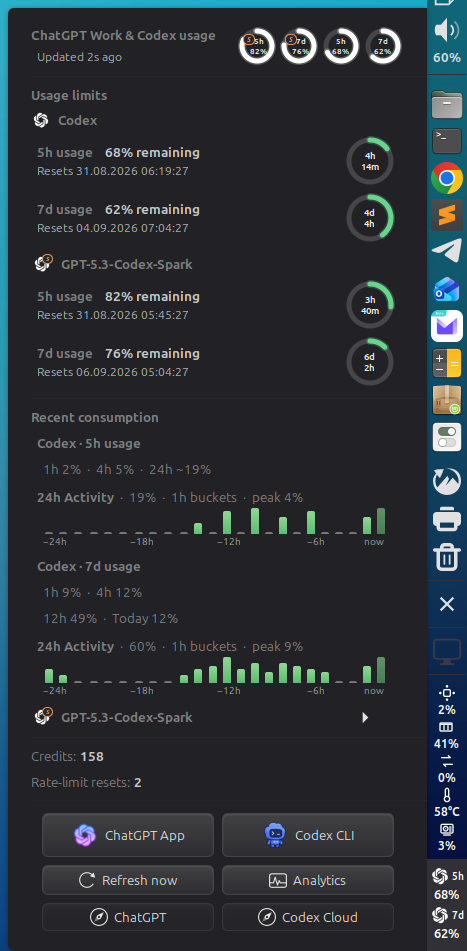
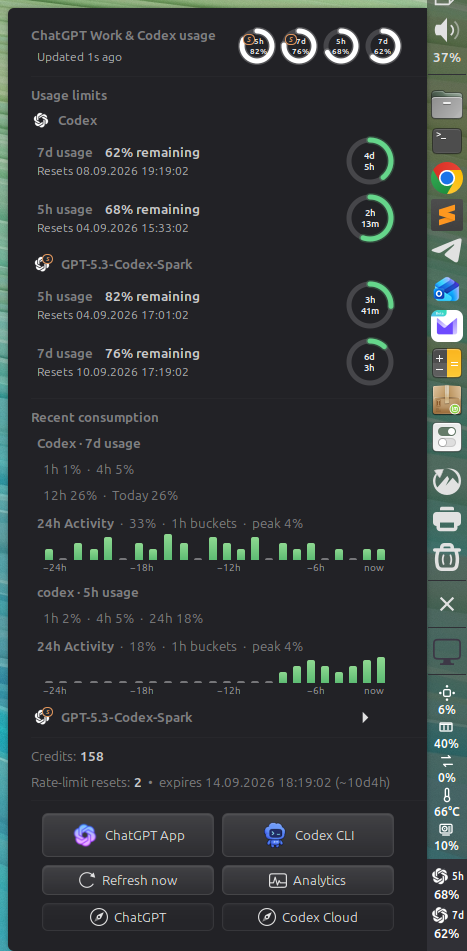
feat: show rate-limit reset expiry (#32)

diff --git a/applet.js b/applet.js
@@ -50,6 +50,12 @@ const COMPACT_QUOTA_RING_SIZE = 40;
 const POPUP_HEADER_RING_LEFT_SHIFT = 13;
 const POPUP_RESET_RING_LEFT_SHIFT = 14;
 const SPARK_BADGE_COLOR = "#f2a15f";
+const RESET_EXPIRY_WARNING_COLOR = "#f2a15f";
+const RESET_EXPIRY_CRITICAL_COLOR = "#ff4d8d";
+const RESET_EXPIRY_WARNING_SECONDS = 7 * 24 * 60 * 60;
+const RESET_EXPIRY_CRITICAL_SECONDS = 24 * 60 * 60;
+const RESET_EXPIRY_BREATHING_OPACITY = 150;
+const RESET_EXPIRY_BREATHING_DURATION_MS = 1100;
 const AUTH_REQUIRED_TITLE = "No ChatGPT login found";
 const AUTH_REQUIRED_DESCRIPTION =
     "Sign in to ChatGPT with the Codex App/CLI, then choose Refresh now.";
@@ -67,6 +73,7 @@ class ChatGptUsageApplet extends Applet.Applet {
         this._timeoutId = 0;
         this._countdownTimeoutId = 0;
         this._countdownWidgets = [];
+        this._resetExpiryBreathingLabels = [];
         this._quotaWidgets = [];
         this._activityTooltips = [];
         this._popupRightInsetRows = [];
@@ -375,7 +382,9 @@ class ChatGptUsageApplet extends Applet.Applet {
                 if (open) {
                     this._rightPanelPopupCloseSeq++;
                     this._rightPanelPopupCloseInProgress = false;
+                    this._startResetExpiryBreathing();
                 }
+                if (!open) this._stopResetExpiryBreathing();
                 if (!open) this._rightPanelPopupLockedWidth = 0;
                 if (!open && !this._rightPanelPopupCloseInProgress) {
                     this._normalizeRightPanelPopupCloseWidth();
@@ -644,11 +653,51 @@ class ChatGptUsageApplet extends Applet.Applet {
         return this.normalColor;
     }
 
+    _resetExpiryColor(expiresAt) {
+        const expiry = Number(expiresAt);
+        if (!Number.isFinite(expiry) || expiry <= 0) return null;
+        const remaining = expiry - GLib.get_real_time() / 1000000;
+        if (remaining <= RESET_EXPIRY_CRITICAL_SECONDS) {
+            return RESET_EXPIRY_CRITICAL_COLOR;
+        }
+        if (remaining <= RESET_EXPIRY_WARNING_SECONDS) {
+            return RESET_EXPIRY_WARNING_COLOR;
+        }
+        return null;
+    }
+
+    _startResetExpiryBreathing() {
+        for (const label of this._resetExpiryBreathingLabels) {
+            if (!label || !label.mapped || label._resetExpiryBreathing) continue;
+            label._resetExpiryBreathing = true;
+            label.opacity = 255;
+            label.ease({
+                opacity: RESET_EXPIRY_BREATHING_OPACITY,
+                duration: RESET_EXPIRY_BREATHING_DURATION_MS,
+                mode: Clutter.AnimationMode.EASE_IN_OUT_QUAD,
+                repeatCount: -1,
+                autoReverse: true,
+                animationRequired: false
+            });
+        }
+    }
+
+    _stopResetExpiryBreathing() {
+        for (const label of this._resetExpiryBreathingLabels) {
+            if (!label) continue;
+            label.remove_transition("opacity");
+            label.opacity = 255;
+            label._resetExpiryBreathing = false;
+        }
+    }
+
     _rebuildMenu() {
         if (!this.menu) return;
         const wasOpen = this.menu.isOpen;
         const expandedSubmenus = new Set();
         if (wasOpen) this.actor.grab_key_focus();
+        this._stopResetExpiryBreathing();
+        this._resetExpiryBreathingLabels = [];
         for (const entry of this._historySubmenus) {
             if (!entry.submenu.menu.isOpen) continue;
             expandedSubmenus.add(entry.id);
@@ -1619,16 +1668,23 @@ class ChatGptUsageApplet extends Applet.Applet {
             : "unavailable";
         if (credits && credits.unlimited) balance = "unlimited";
         this._addCreditItem("Credits", balance, true);
+        const resetDisplay = UsageFormat.buildResetCreditDisplay(
+            credits,
+            this._use24HourClock
+        );
+        const resetExpiryColor = resetDisplay.suffix
+            ? this._resetExpiryColor(resetDisplay.expiresAt)
+            : null;
         this._addCreditItem(
             "Rate-limit resets",
-            credits
-                ? UsageFormat.formatWholeNumber(credits.availableResetCount)
-                : "unavailable",
-            true
+            resetDisplay.count,
+            true,
+            resetDisplay.suffix,
+            resetExpiryColor
         );
     }
 
-    _addCreditItem(label, value, emphasized = false) {
+    _addCreditItem(label, value, emphasized = false, suffix = null, suffixColor = null) {
         const item = new PopupMenu.PopupBaseMenuItem({
             reactive: false,
             activate: false
@@ -1643,6 +1699,31 @@ class ChatGptUsageApplet extends Applet.Applet {
             valueLabel.style = "padding-left: 4px;";
         }
         row.add_child(valueLabel);
+        if (suffix) {
+            const separatorLabel = new St.Label({
+                text: "•",
+                y_align: Clutter.ActorAlign.CENTER
+            });
+            separatorLabel.style = "padding-left: 6px; padding-right: 6px;";
+            const expiresLabel = new St.Label({
+                text: "expires ",
+                y_align: Clutter.ActorAlign.CENTER
+            });
+            const expiryDateLabel = new St.Label({
+                text: suffix,
+                y_align: Clutter.ActorAlign.CENTER
+            });
+            if (suffixColor) expiryDateLabel.style = `color: ${suffixColor};`;
+            if (suffixColor === RESET_EXPIRY_CRITICAL_COLOR) {
+                this._resetExpiryBreathingLabels.push(expiryDateLabel);
+                expiryDateLabel.connect("notify::mapped", () => {
+                    if (expiryDateLabel.mapped) this._startResetExpiryBreathing();
+                });
+            }
+            row.add_child(separatorLabel);
+            row.add_child(expiresLabel);
+            row.add_child(expiryDateLabel);
+        }
         item.addActor(row);
         this.menu.addMenuItem(item);
     }
@@ -2357,6 +2438,8 @@ class ChatGptUsageApplet extends Applet.Applet {
             this._clockSettings.disconnect(this._clockChangedId);
             this._clockChangedId = 0;
         }
+        this._stopResetExpiryBreathing();
+        this._resetExpiryBreathingLabels = [];
         this._clockSettings = null;
         if (this.settings) this.settings.finalize();
     }

diff --git a/usage-format.js b/usage-format.js
@@ -520,6 +520,47 @@ function formatTimestamp(epochSeconds, use24Hour) {
     return dateTime.format(`%x ${timeFormat}`);
 }
 
+function formatExpiryCountdown(expiresAt, nowSeconds = null) {
+    const expiry = Number(expiresAt);
+    const current = nowSeconds === null
+        ? GLib.get_real_time() / 1000000
+        : Number(nowSeconds);
+    if (
+        !Number.isFinite(expiry) || expiry <= 0 ||
+        !Number.isFinite(current)
+    ) {
+        return null;
+    }
+
+    const remainingSeconds = Math.max(0, Math.floor(expiry - current));
+    const days = Math.floor(remainingSeconds / 86400);
+    const hours = Math.floor((remainingSeconds % 86400) / 3600);
+    return days > 0 ? `~${days}d${hours}h` : `~${hours}h`;
+}
+
+function buildResetCreditDisplay(credits, use24Hour, nowSeconds = null) {
+    const count = credits
+        ? formatWholeNumber(credits.availableResetCount)
+        : "unavailable";
+    const availableCount = Number(credits && credits.availableResetCount);
+    if (!Number.isFinite(availableCount) || availableCount <= 0) {
+        return { count, suffix: null, expiresAt: null };
+    }
+
+    const expiresAt = Number(credits.nextResetExpiresAt);
+    const timestamp = formatTimestamp(expiresAt, use24Hour);
+    if (timestamp === "unknown") {
+        return { count, suffix: null, expiresAt: null };
+    }
+
+    const countdown = formatExpiryCountdown(expiresAt, nowSeconds);
+    return {
+        count,
+        suffix: countdown ? `${timestamp} (${countdown})` : timestamp,
+        expiresAt
+    };
+}
+
 function formatLocalDate(epochSeconds) {
     const seconds = Number(epochSeconds);
     if (!Number.isFinite(seconds) || seconds <= 0) return null;
@@ -601,6 +642,8 @@ module.exports = {
     formatActivityBucketTooltip,
     formatAccessibleTooltip,
     formatTimestamp,
+    formatExpiryCountdown,
+    buildResetCreditDisplay,
     formatLocalDate,
     formatChatGptVersionDate,
     formatRelativeTime,

diff --git a/tests/test-usage-format.js b/tests/test-usage-format.js
@@ -783,6 +783,62 @@ if (/AM|PM/.test(timestamp24h) || !/:/.test(timestamp24h)) {
     throw new Error(`Expected system-local 24-hour timestamp, got ${timestamp24h}`);
 }
 assertEqual(
+    UsageFormat.formatExpiryCountdown(1000 + 10 * 86400 + 5 * 3600 + 59 * 60, 1000),
+    "~10d5h",
+    "Expiry countdown days and hours"
+);
+assertEqual(
+    UsageFormat.formatExpiryCountdown(1000 + 23 * 3600 + 59 * 60, 1000),
+    "~23h",
+    "Expiry countdown under one day"
+);
+assertEqual(
+    UsageFormat.formatExpiryCountdown(1000 - 1, 1000),
+    "~0h",
+    "Expired countdown"
+);
+assertEqual(
+    UsageFormat.formatExpiryCountdown(null, 1000),
+    null,
+    "Invalid expiry countdown"
+);
+const noResetDisplay = UsageFormat.buildResetCreditDisplay(
+    {
+        availableResetCount: 0,
+        nextResetExpiresAt: 1000 + 10 * 86400
+    },
+    true,
+    1000
+);
+assertEqual(noResetDisplay.count, "0", "No reset count stays visible");
+assertEqual(
+    noResetDisplay.suffix,
+    null,
+    "No reset count has no expiry suffix"
+);
+assertEqual(
+    noResetDisplay.expiresAt,
+    null,
+    "No reset count has no expiry timestamp"
+);
+const resetDisplay = UsageFormat.buildResetCreditDisplay(
+    {
+        availableResetCount: 1,
+        nextResetExpiresAt: 1000 + 10 * 86400 + 5 * 3600
+    },
+    true,
+    1000
+);
+assertEqual(resetDisplay.count, "1", "Available reset count is formatted");
+if (!resetDisplay.suffix || !/\(~10d5h\)$/.test(resetDisplay.suffix)) {
+    throw new Error(`Expected expiry suffix with countdown, got ${resetDisplay.suffix}`);
+}
+assertEqual(
+    resetDisplay.expiresAt,
+    1000 + 10 * 86400 + 5 * 3600,
+    "Available reset keeps expiry timestamp"
+);
+assertEqual(
     UsageFormat.formatRelativeTime(1000, 1000),
     "just now",
     "Current relative timestamp"

diff --git a/tests/test_chatgpt_usage.py b/tests/test_chatgpt_usage.py
@@ -82,7 +82,14 @@ class NormaliseRateLimitsTests(unittest.TestCase):
                     },
                 },
             },
-            "rateLimitResetCredits": {"availableCount": 2, "credits": []},
+            "rateLimitResetCredits": {
+                "availableCount": 2,
+                "credits": [
+                    {"status": "available", "expiresAt": 1791079502},
+                    {"status": "available", "expiresAt": 1789000000},
+                    {"status": "redeemed", "expiresAt": 1788000000},
+                ],
+            },
         }
 
         snapshot = normalise_rate_limits(result, now=123)
@@ -100,6 +107,7 @@ class NormaliseRateLimitsTests(unittest.TestCase):
         )
         self.assertEqual(snapshot["credits"]["balance"], "0")
         self.assertEqual(snapshot["credits"]["availableResetCount"], 2)
+        self.assertEqual(snapshot["credits"]["nextResetExpiresAt"], 1789000000)
 
     def test_unnamed_internal_bucket_is_ignored(self) -> None:
         result = {
@@ -137,6 +145,7 @@ class NormaliseRateLimitsTests(unittest.TestCase):
         self.assertEqual(len(snapshot["limits"][0]["windows"]), 1)
         self.assertEqual(snapshot["limits"][0]["windows"][0]["remainingPercent"], 61)
         self.assertEqual(snapshot["credits"]["availableResetCount"], 0)
+        self.assertIsNone(snapshot["credits"]["nextResetExpiresAt"])
 
     def test_optional_five_hour_window_when_canonical_api_exposes_it(self) -> None:
         result = {

diff --git a/chatgpt_usage.py b/chatgpt_usage.py
@@ -6,6 +6,7 @@ from __future__ import annotations
 import argparse
 import datetime as dt
 import json
+import math
 import os
 import select
 import shutil
@@ -82,6 +83,25 @@ def _normalise_window(window: Any) -> dict[str, Any] | None:
     }
 
 
+def _next_reset_expiry(resets: Any) -> int | None:
+    """Return the earliest expiry among available reset-credit details."""
+
+    if not isinstance(resets, dict) or not isinstance(resets.get("credits"), list):
+        return None
+
+    expiries = []
+    for credit in resets["credits"]:
+        if not isinstance(credit, dict):
+            continue
+        status = str(credit.get("status") or "").casefold()
+        if status and status != "available":
+            continue
+        expires_at = _number(credit.get("expiresAt"), -1)
+        if math.isfinite(expires_at) and expires_at > 0:
+            expiries.append(int(expires_at))
+    return min(expiries, default=None)
+
+
 def normalise_rate_limits(result: dict[str, Any], now: int | None = None) -> dict[str, Any]:
     """Convert user-facing account and named model limits into an applet snapshot."""
 
@@ -135,6 +155,7 @@ def normalise_rate_limits(result: dict[str, Any], now: int | None = None) -> dic
 
     credits = {
         "availableResetCount": available_resets,
+        "nextResetExpiresAt": _next_reset_expiry(resets),
         "balance": None,
         "hasCredits": False,
         "unlimited": False,

diff --git a/README.md b/README.md
@@ -49,7 +49,10 @@
 ## Highlights
 
 - Mirrors account-level and named model-specific limits exposed by ChatGPT:
-  remaining usage, reset times, credits and earned resets.
+  remaining usage, reset times, credits and earned resets with the next expiry
+  date, time and remaining countdown when available. The expiry timestamp
+  turns orange within seven days and uses a neon-pink breathing alert within
+  24 hours; a zero reset count stays compact and shows only `0`.
 - Detects dedicated GPT-5.3-Codex-Spark 5h and 7d quotas automatically when
   they are enabled for the signed-in account; model-specific limits stay in
   the popup by default, carry a distinct amber marker and can optionally be
@@ -95,7 +98,7 @@ cd cinnamon-chatgpt-usage
 Then open **System Settings → Applets** and add **ChatGPT Usage** to a panel.
 Requirements: Cinnamon 5.8+, Python 3 and a current
 [Codex CLI](https://learn.chatgpt.com/docs/codex/cli#getting-started) signed in
-with ChatGPT. Version 0.3.5 is tested on Cinnamon 6.6.9 with Codex CLI 0.152.0.
+with ChatGPT. Version 0.3.6 is tested on Cinnamon 6.6.9 with Codex CLI 0.152.0.
 
 Run `./install.sh` again after updates. `./uninstall.sh` removes the applet while
 retaining its settings.

diff --git a/CHANGELOG.md b/CHANGELOG.md
@@ -1,5 +1,15 @@
 # Changelog
 
+## 0.3.6 — 2026-09-04
+
+- Show the local expiry date and time of the next available earned rate-limit
+  reset on the same compact line as its reset count, keeping the timestamp in
+  the same regular text treatment as `expires` and adding a remaining
+  `(~XdYh)` countdown when details are supplied.
+- Color the expiry timestamp orange inside seven days and neon pink with a
+  breathing alert inside 24 hours; omit the separator, timestamp and countdown
+  entirely when no reset credit is available.
+
 ## 0.3.5 — 2026-09-01
 
 - Interpret the ChatGPT desktop version date segment (`YY.MDD`) for the
